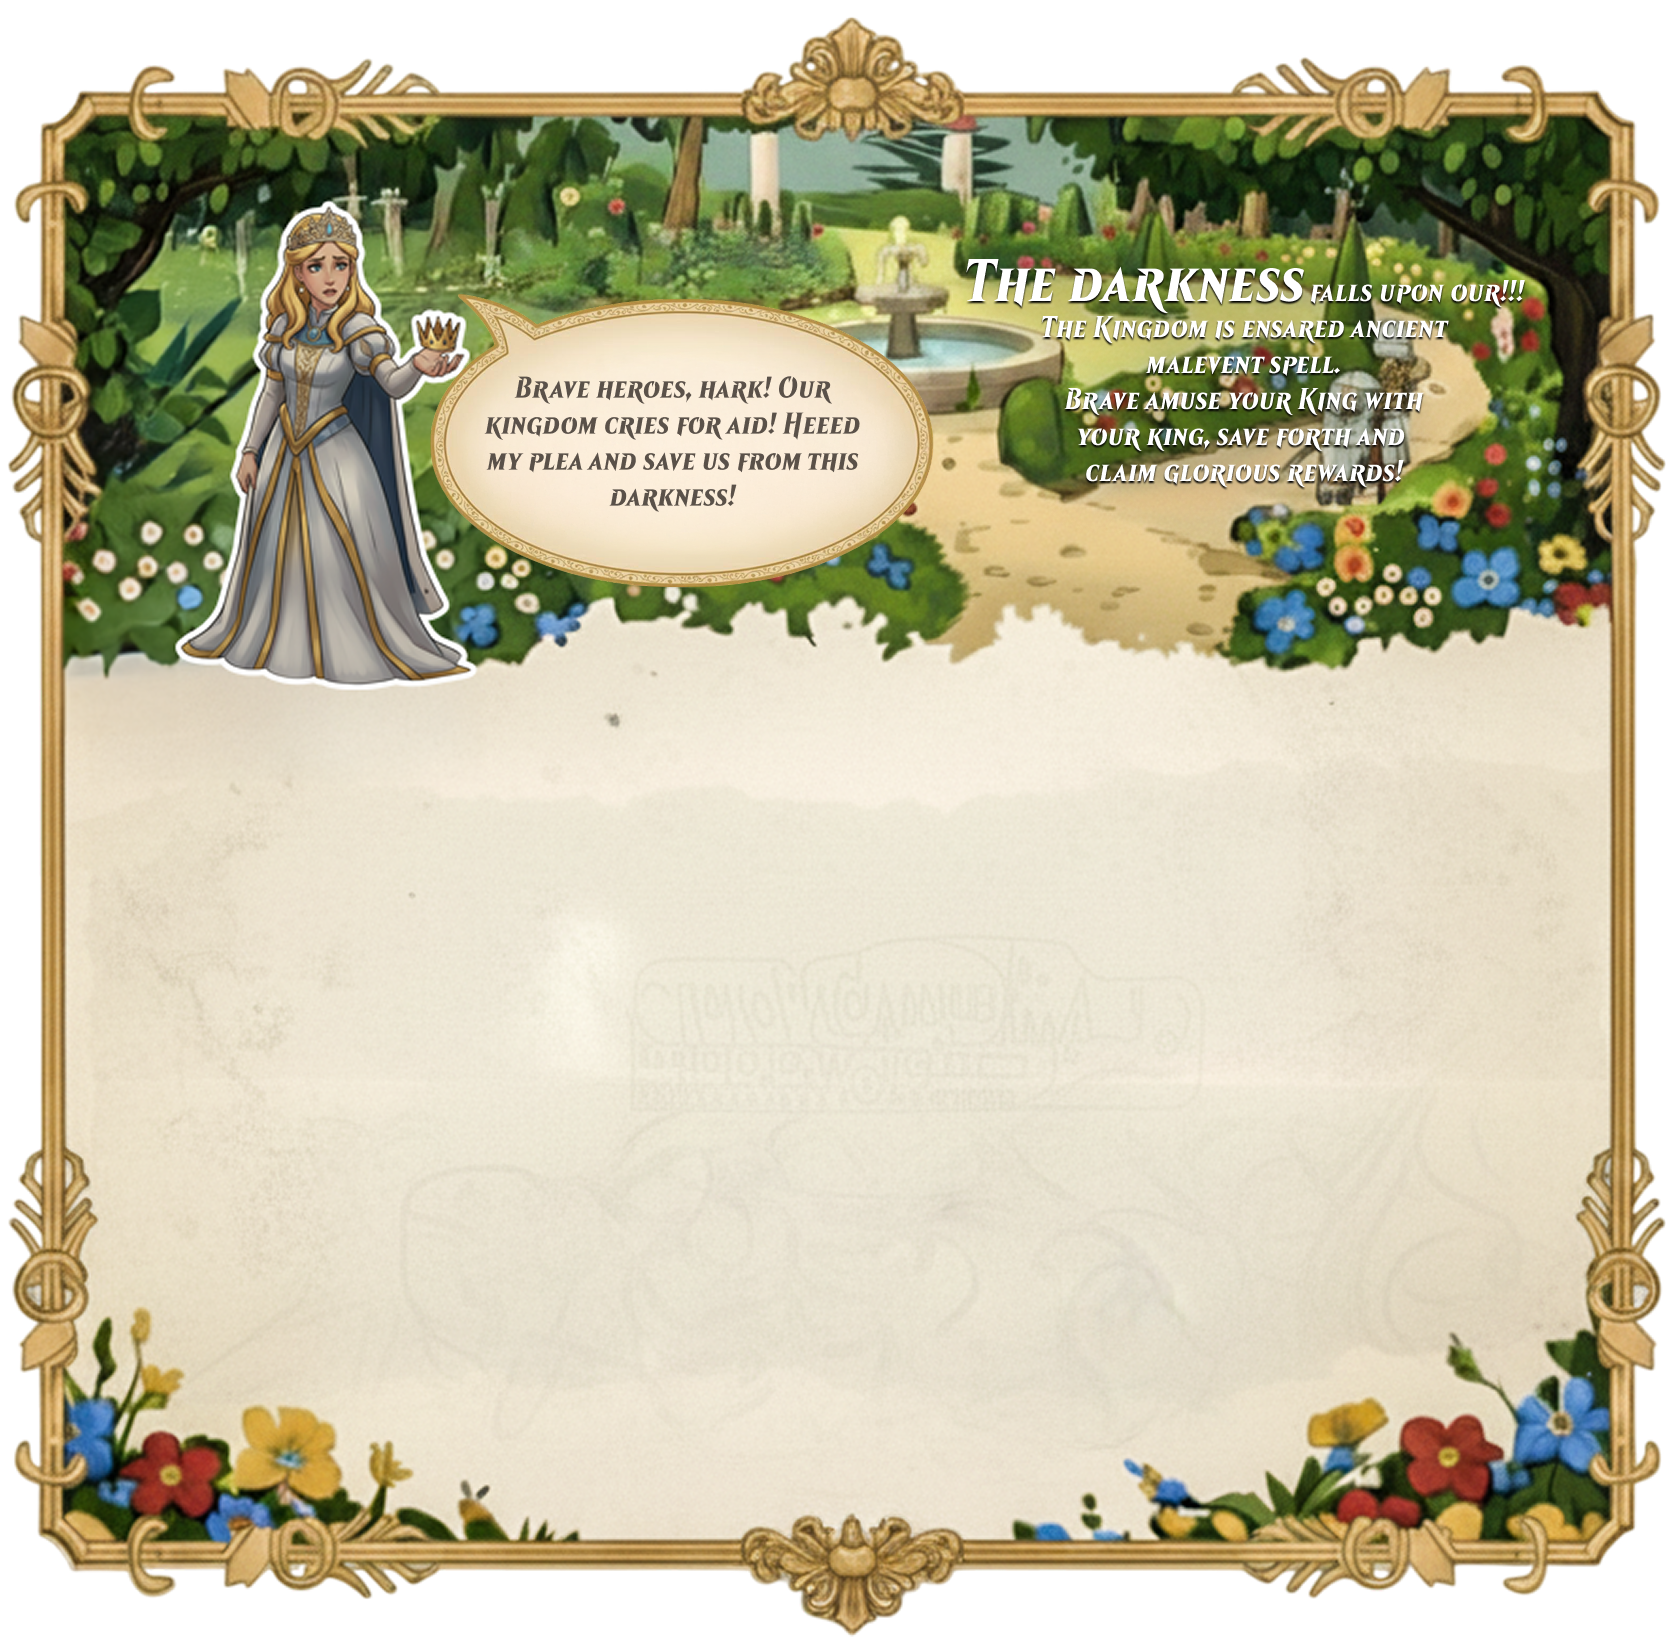
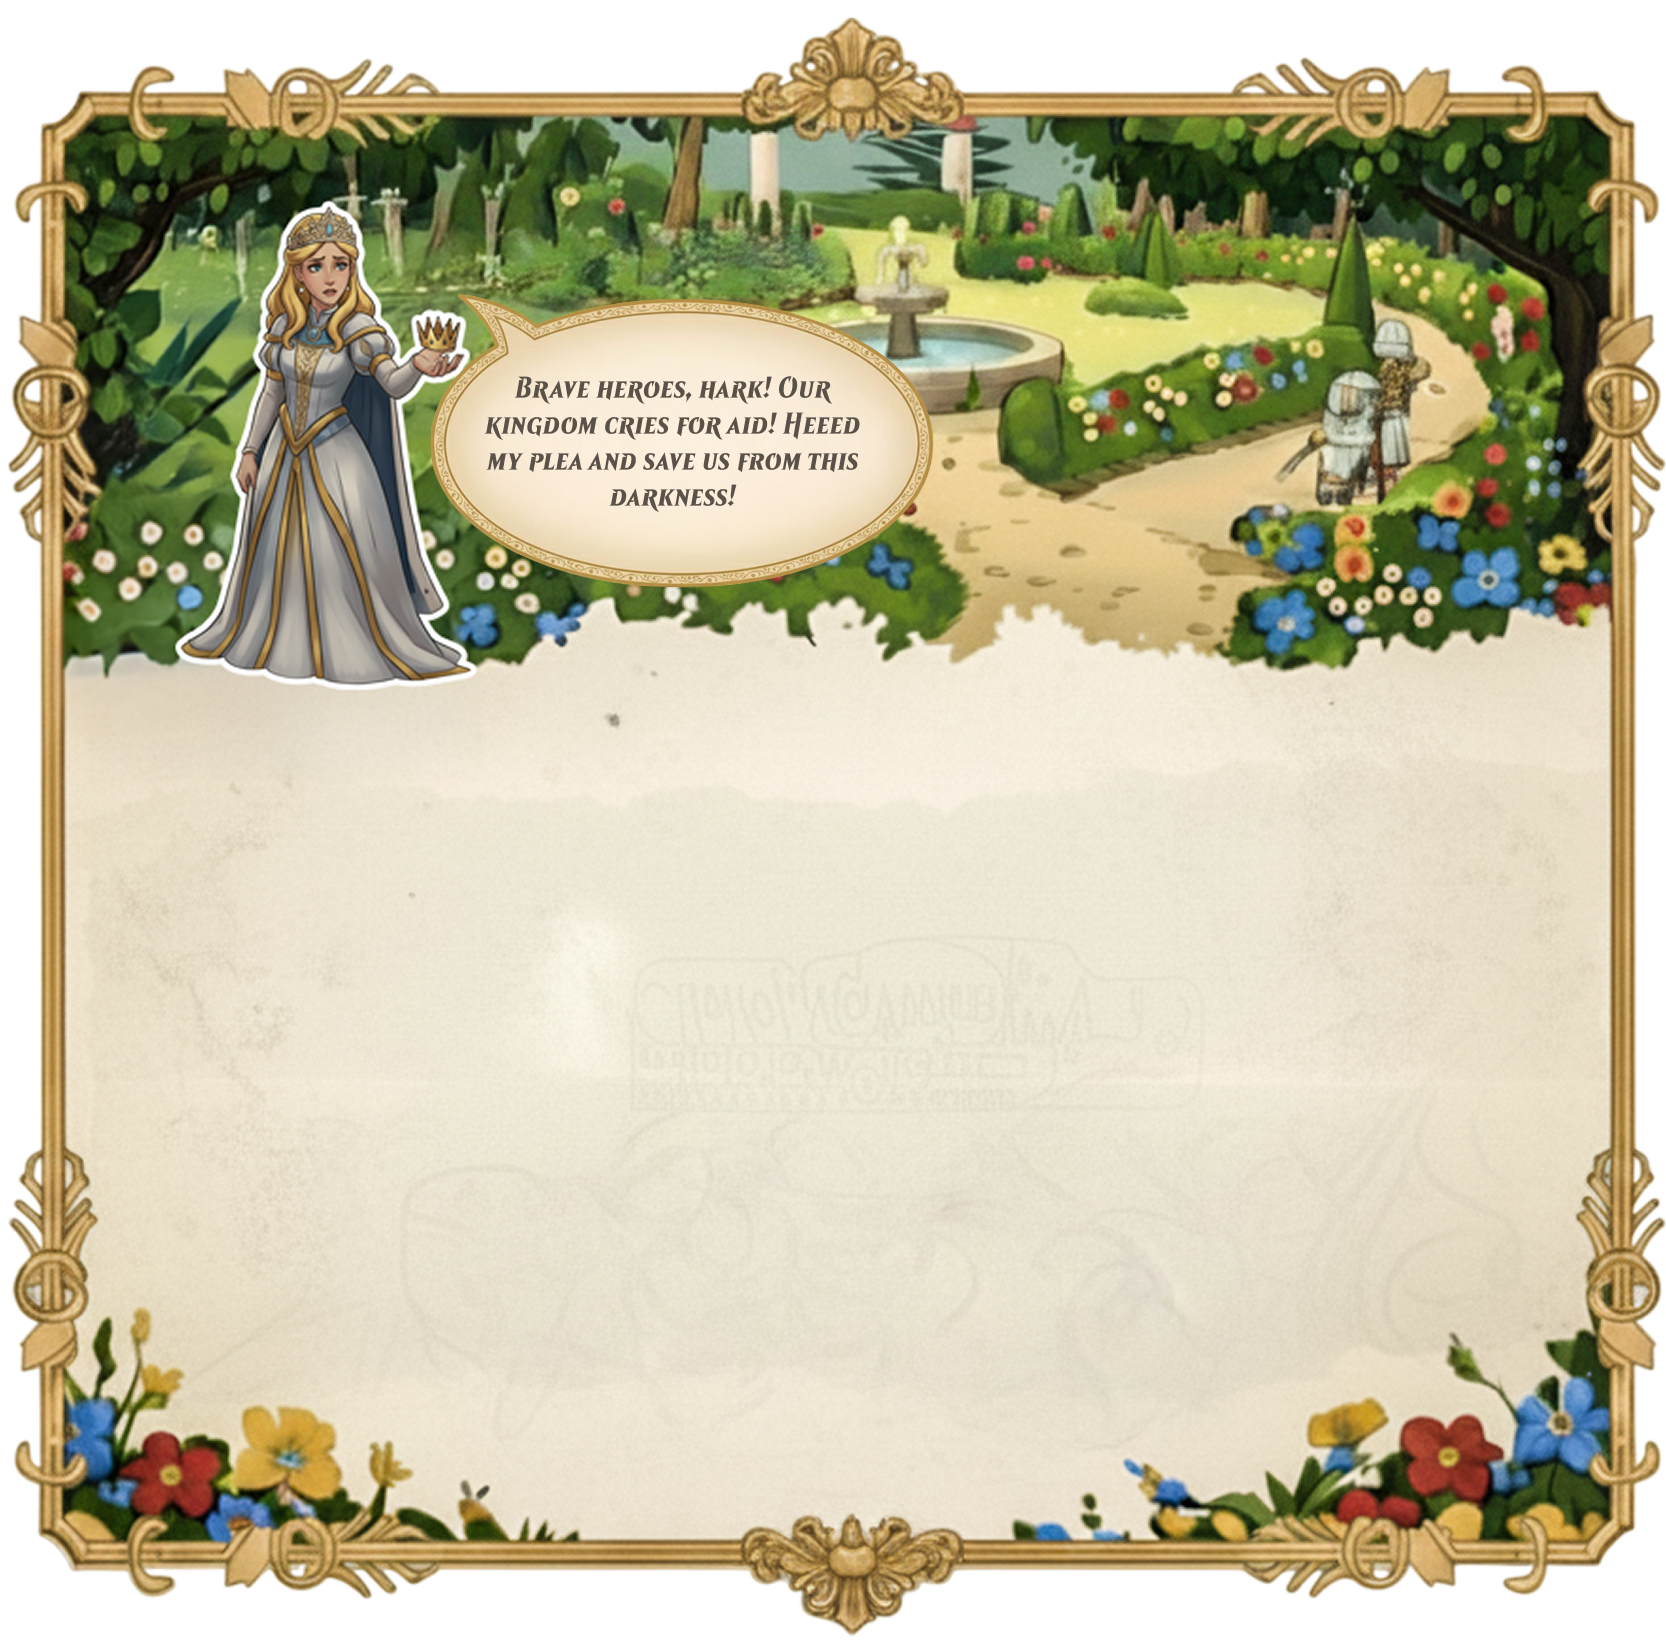
sdv

Changed region(s): [[0.5618, 0.1553, 0.9052, 0.3106]]

diff --git a/pages/index.js b/pages/index.js
@@ -79,6 +79,14 @@ export default function Index() {
 						</Link>
 					</div>
 				</div>
+				<p className='text-[rgba(255,255,255,0.75)] text-base sm:text-lg font-bold text-center max-w-[800px] uppercase text-white'>
+					<span className='text-2xl sm:text-3xl font-bolder'>
+						The darkness falls upon our!!!
+					</span>{" "}
+					<br></br>
+					The Kingdom is ensared ancient malevent spell. Brave amuse your King
+					with your king, save forth and claim glorious rewards!
+				</p>
 				<div className='w-full relative max-w-[800px]'>
 					<Image
 						src={LandingFrame}
